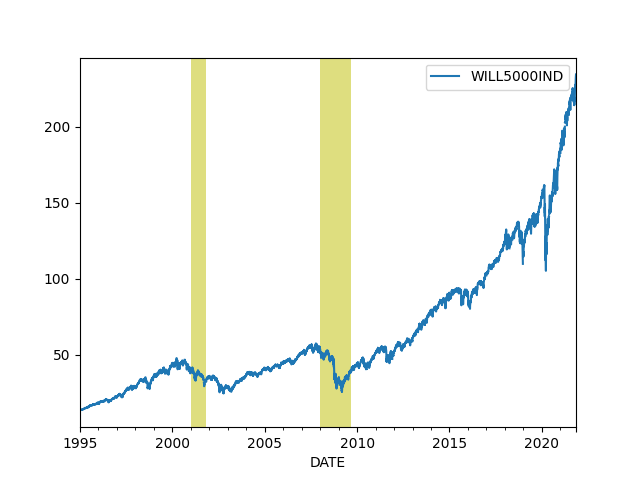
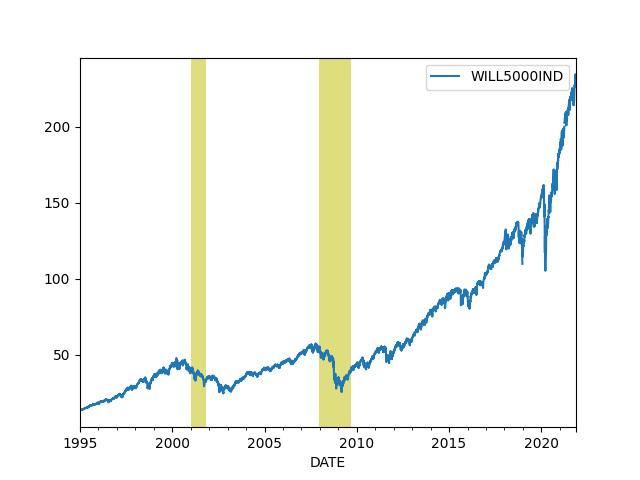
-

diff --git a/en/2019/05/stats.md b/en/2019/05/stats.md
@@ -495,10 +495,10 @@ plt.savefig('wilshire.png')
 ```text
             WILL5000IND
 DATE                   
-2021-11-03       232.27
-2021-11-04       233.06
-2021-11-05       234.02
-2021-11-08       234.36
+2021-11-15       233.25
+2021-11-16       234.19
+2021-11-17       233.38
+2021-11-18       233.87
 ```
 
 ![](wilshire.png)
@@ -527,12 +527,12 @@ plt.savefig('junkbond.png')
 ```text
             BAMLH0A2HYBEY
 DATE                     
-2021-11-01           4.84
-2021-11-02           4.84
-2021-11-03           4.84
-2021-11-04           4.78
-2021-11-05           4.63
-2021-11-08           4.61
+2021-11-11           4.71
+2021-11-12           4.78
+2021-11-15           4.81
+2021-11-16           4.83
+2021-11-17           4.86
+2021-11-18           4.87
 ```
 
 ![](junkbond.png)
